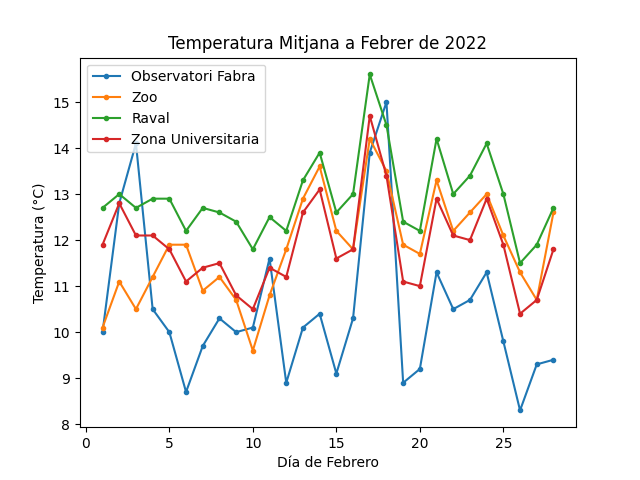
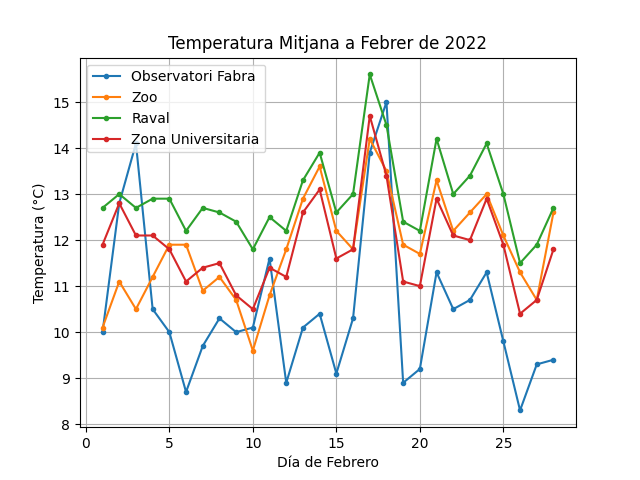
acabado

diff --git a/main.py b/main.py
@@ -4,129 +4,196 @@ from datetime import datetime
 import matplotlib.pyplot as plt
 import random
 
+
 def llegir_dades(nom_fitxer_3):
-    meteocat_metadades_2022 = []
-    with open(nom_fitxer_3, 'r') as file:
-        csv_reader = csv.DictReader(file, delimiter=',')
-        next(csv_reader)
-        for row in csv_reader:
-            meteocat_metadades_2022.append(row)
-    return meteocat_metadades_2022
+   meteocat_metadades_2022 = []
+   with open(nom_fitxer_3, 'r') as file:
+       csv_reader = csv.DictReader(file, delimiter=',')
+       next(csv_reader)
+       for row in csv_reader:
+           meteocat_metadades_2022.append(row)
+   return meteocat_metadades_2022
+
 
 def filtra_febrero(data):
-    febrero_data = []
-    febrero_dias = []
-    observatori_fabra = []
-    zoo = []
-    raval = []
-    zona_universitaria = []
+   febrero_data = []
+   febrero_dias = []
+   observatori_fabra = []
+   zoo = []
+   raval = []
+   zona_universitaria = []
+   precipitacio = []
 
-    for row in data:
-        fecha_lectura = row['DATA_LECTURA']
-        estacio = row["CODI_ESTACIO"]
-        tipo = row["ACRONIM"]
-        if tipo == "TM":
-            if fecha_lectura:
-                fecha = datetime.strptime(fecha_lectura, '%Y-%m-%d')
-                if fecha.month == 2:
-                    dia_del_mes = int(fecha.strftime('%d'))
-                    febrero_data.append(row)
-                    febrero_dias.append(dia_del_mes)
-                    if estacio == "D5":
-                        observatori_fabra.append(float(row['VALOR']))
-                    elif estacio == "X2":
-                        zoo.append(float(row['VALOR'])) 
-                    elif estacio == "X4":
-                        raval.append(float(row['VALOR']))
-                    elif estacio == "X8":
-                        zona_universitaria.append(float(row['VALOR']))
-                    else:
-                        # Manejo de estaciones desconocidas
-                        pass
 
-    return febrero_dias, observatori_fabra, zoo, raval, zona_universitaria
+   for row in data:
+       fecha_lectura = row['DATA_LECTURA']
+       estacio = row["CODI_ESTACIO"]
+       tipo = row["ACRONIM"]
+       if tipo == "TM":
+           if fecha_lectura:
+               fecha = datetime.strptime(fecha_lectura, '%Y-%m-%d')
+               if fecha.month == 2:
+                   dia_del_mes = int(fecha.strftime('%d'))
+                   febrero_data.append(row)
+                   febrero_dias.append(dia_del_mes)
+                   if estacio == "D5":
+                       observatori_fabra.append(float(row['VALOR']))
+                   elif estacio == "X2":
+                       zoo.append(float(row['VALOR']))
+                   elif estacio == "X4":
+                       raval.append(float(row['VALOR']))
+                   elif estacio == "X8":
+                       zona_universitaria.append(float(row['VALOR']))
+                   else:
+                       # Manejo de estaciones desconocidas
+                       pass
+       if tipo == "PPT":
+           if fecha_lectura:
+               fecha = datetime.strptime(fecha_lectura, '%Y-%m-%d')
+               if fecha.month == 2:
+                   if float(row["VALOR"]) > 0:
+                       precipitacio.append(True)
+                   else:
+                       precipitacio.append(False)
+              
+
+
+   return febrero_dias, observatori_fabra, zoo, raval, zona_universitaria, precipitacio
+
 
 def visualitza_temperatura_febrer(dias, valors1, valors2, valors3, valors4):
-    dias_feb = numpy.array(list(set(dias)))
-    #grafico con todos
-    plt.plot(dias_feb, valors1, label='Observatori Fabra', marker= ".")
-    plt.plot(dias_feb, valors2, label='Zoo', marker= ".")
-    plt.plot(dias_feb, valors3, label='Raval', marker= ".")
-    plt.plot(dias_feb, valors4, label='Zona Universitaria', marker= ".")
-    plt.xlabel('Día de Febrero')
-    plt.ylabel('Temperatura (°C)')
-    plt.title('Temperatura Mitjana a Febrer de 2022')
-    plt.legend()
-    plt.savefig('grafico_temperatura_febrero.png')
+   dias_feb = numpy.array(list(set(dias)))
+   #grafico con todos
+   plt.plot(dias_feb, valors1, label='Observatori Fabra', marker= ".")
+   plt.plot(dias_feb, valors2, label='Zoo', marker= ".")
+   plt.plot(dias_feb, valors3, label='Raval', marker= ".")
+   plt.plot(dias_feb, valors4, label='Zona Universitaria', marker= ".")
+   plt.xlabel('Día de Febrero')
+   plt.ylabel('Temperatura (°C)')
+   plt.title('Temperatura Mitjana a Febrer de 2022')
+   plt.grid(True)
+   plt.legend()
+   plt.savefig('grafico_temperatura_febrero.png')
 
-    #grafico subplot
-    plt.figure(figsize=(8, 10))
 
-    # 1
-    plt.subplot(411)
-    plt.plot(dias_feb, valors1, label='Observatori Fabra', marker= ".")
-    plt.title('Observatori Fabra')
-    plt.xlabel('')
-    plt.ylabel('Temperatura (°C)')
-    plt.legend()
+   #grafico subplot
+   plt.figure(figsize=(8, 10))
 
-    # 2
-    plt.subplot(412)
-    plt.plot(dias_feb, valors2, label='Zoo', marker= ".", color='yellow')
-    plt.title('Zoo')
-    plt.xlabel('')
-    plt.ylabel('Temperatura (°C)')
-    plt.legend()
 
-    # 3
-    plt.subplot(413)
-    plt.plot(dias_feb, valors3, label='Raval', marker= ".", color='green')
-    plt.title('Raval')
-    plt.xlabel('')
-    plt.ylabel('Temperatura (°C)')
-    plt.legend()
+   # 1
+   plt.subplot(411)
+   plt.plot(dias_feb, valors1, label='Observatori Fabra', marker= ".")
+   plt.title('Observatori Fabra')
+   plt.xlabel('')
+   plt.ylabel('Temperatura (°C)')
+   plt.grid(True)
+   plt.legend()
 
-    # 4
-    plt.subplot(414)
-    plt.plot(dias_feb, valors4, label='Zona Universitaria', marker= ".", color='red')
-    plt.title('Zona Universitaria')
-    plt.xlabel('Día de Febrero')
-    plt.ylabel('Temperatura (°C)')
-    plt.legend()
 
+   # 2
+   plt.subplot(412)
+   plt.plot(dias_feb, valors2, label='Zoo', marker= ".", color='yellow')
+   plt.title('Zoo')
+   plt.xlabel('')
+   plt.ylabel('Temperat44.7ura (°C)')
+   plt.grid(True)
+   plt.legend()
+
+
+   # 3
+   plt.subplot(413)
+   plt.plot(dias_feb, valors3, label='Raval', marker= ".", color='green')
+   plt.title('Raval')
+   plt.xlabel('')
+   plt.ylabel('Temperatura (°C)')
+   plt.grid(True)
+   plt.legend()
+
+
+   # 4
+   plt.subplot(414)
+   plt.plot(dias_feb, valors4, label='Zona Universitaria', marker= ".", color='red')
+   plt.title('Zona Universitaria')
+   plt.xlabel('Día de Febrero')
+   plt.ylabel('Temperatura (°C)')
+   plt.grid(True)
+   plt.legend()
+
+
+  
+   plt.tight_layout()
+   plt.suptitle('Temperatura Media en Febrero de 2022', y=0.999)
+   plt.savefig('grafico_temperatura_febrero_subplot.png')
+
+
+
+
+def histograma_febrer_2023(fabra, zoo, raval, zona_universitaria):
+   temperatura_total = zip(fabra, zoo, raval, zona_universitaria)
+   mitjana_total_per_dia = [sum(t) / len(t) for t in temperatura_total]
+   array_random = [random.choice(mitjana_total_per_dia) + random.random() for _ in range(len(mitjana_total_per_dia))]
+  
+   plt.figure()
+   plt.hist(array_random, bins=5, edgecolor='black', alpha=0.7, color = "red")
+   plt.xlabel('Temperatura media')
+   plt.ylabel('Cantidad de dias')
+   plt.xlim(-10, 25)
+   plt.xticks(range(-10, 26, 2))
+   plt.title('Histograma de Temperaturas en Febrero 2023')
+   plt.grid(True)
+   plt.savefig('histograma_temperatura_febrero_2023.png')
+
+
+def precipitacio_febrer_2023(precipitacio):
+   print(precipitacio)
+
+def prediccion_lluvia_febrero_2023():
+    # Suponiendo 28 días en febrero
+    dias_febrero_2023 = 28
     
-    plt.tight_layout()
-    plt.suptitle('Temperatura Media en Febrero de 2022', y=0.999)
-    plt.savefig('grafico_temperatura_febrero_subplot.png')
-
-
-def histograma_febrer_2022(dias, fabra, zoo, raval, zona_universitaria):
-    temperatura_total = zip(fabra, zoo, raval, zona_universitaria)
-    mitjana_total = [sum(t) / len(t) for t in temperatura_total]
-    mitjana_total_per_dia = [round(t, 1) for t in mitjana_total]
-    print(mitjana_total_per_dia)
-
+    # Generar predicciones aleatorias de lluvia para cada día
+    predicciones = numpy.random.choice([True, False], size=dias_febrero_2023)
     
+    return predicciones
 
-    array_random = [random.choice(mitjana_total_per_dia) + random.random() for _ in range(len(mitjana_total_per_dia))]
-    
-    
-    plt.figure()
-    plt.hist(array_random, bins=5, edgecolor='black', alpha=0.7, color = "red")
-    plt.xlabel('Temperatura media')
-    plt.ylabel('Cantidad de dias')
-    plt.xlim(-10, 25)
-    plt.xticks(range(-10, 26, 2))
-    plt.title('Histograma de Temperaturas en Febrero 2023')
-    plt.savefig('histograma_temperatura_febrero_2023.png')
+def visualizar_prediccion(predicciones):
+    # Calcular la proporción de días con y sin lluvia
+    dias_con_lluvia = numpy.sum(predicciones)
+    dias_sin_lluvia = len(predicciones) - dias_con_lluvia
+
+    # Crear un diagrama de sectores
+    plt.figure(figsize=(8, 8))
+    plt.pie([dias_con_lluvia, dias_sin_lluvia], labels=['Lluvia', 'Sin lluvia'], autopct='%1.1f%%', startangle=90, colors=['blue', 'lightgrey'])
+    plt.title('Proporción de días con y sin lluvia en febrero de 2023')
+    plt.savefig('diagrama_sectores_prediccion.png')
+    plt.show()
+
+    # Crear un diagrama de barras vertical
+    plt.figure(figsize=(8, 4))
+    plt.barh(['Lluvia', 'Sin lluvia'], [dias_con_lluvia, dias_sin_lluvia], color=['blue', 'lightgrey'])
+    plt.xlabel('Número de días')
+    plt.title('Número de días con y sin lluvia en febrero de 2023')
+    plt.savefig('diagrama_barras_prediccion.png')
+    plt.show()
+
+def precipitacio_febrer_2023(precipitacio):
+    visualizar_prediccion(precipitacio)
+
+
+
 
 def main():
     meteocat_metadades_2022 = llegir_dades('2022_MeteoCat_Detall_Estacions.csv' )
     array_metadades_2022 = numpy.array(meteocat_metadades_2022)
-    
-    febrero_dias_2022, observatori_fabra, zoo, raval, zona_universitaria  = filtra_febrero(array_metadades_2022)
-    
+  
+    febrero_dias_2022, observatori_fabra, zoo, raval, zona_universitaria, precipitacio  = filtra_febrero(array_metadades_2022)
+  
     visualitza_temperatura_febrer(febrero_dias_2022, observatori_fabra, zoo, raval, zona_universitaria)
-    histograma_febrer_2022(febrero_dias_2022, observatori_fabra, zoo, raval, zona_universitaria)
+    histograma_febrer_2023(observatori_fabra, zoo, raval, zona_universitaria)
+    
+    # Obtener la predicción de lluvia para febrero de 2023
+    predicciones = prediccion_lluvia_febrero_2023()
+    
+    precipitacio_febrer_2023(predicciones)
 
 main()
